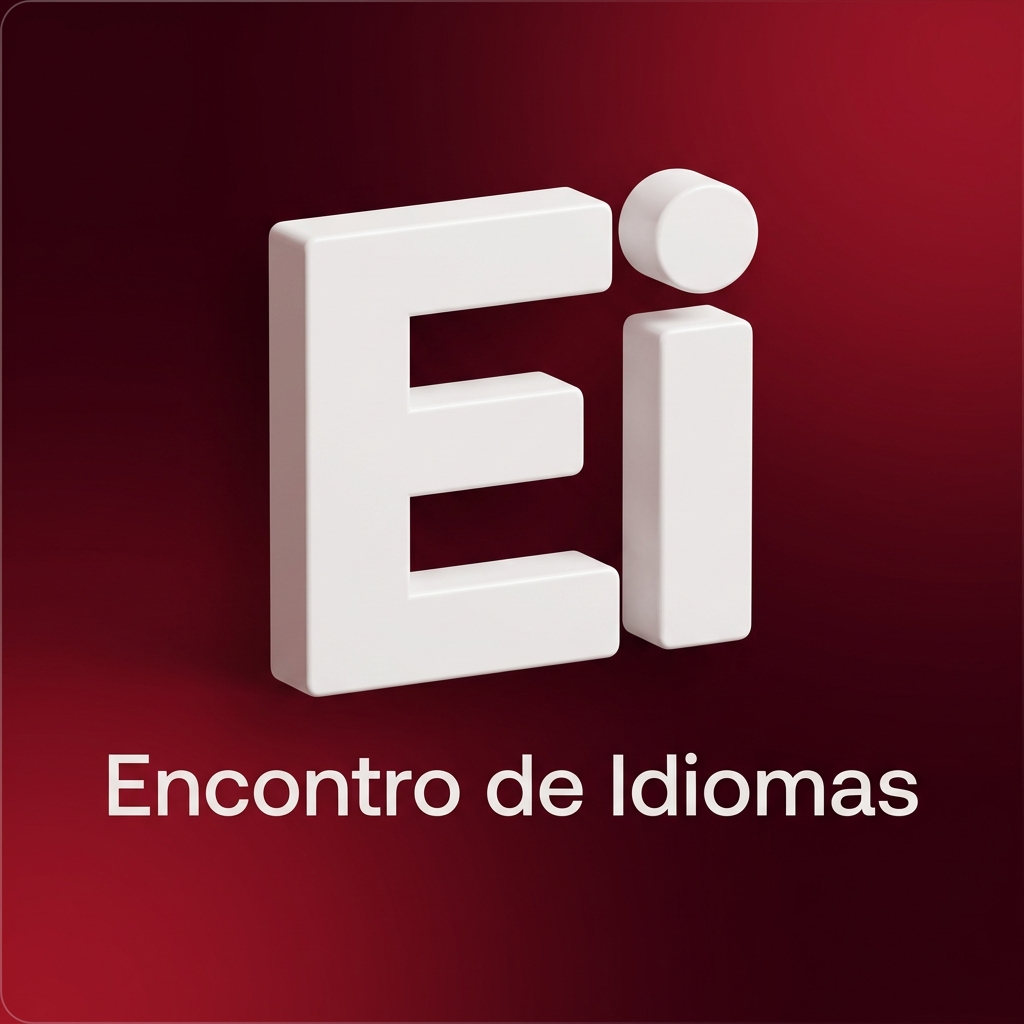
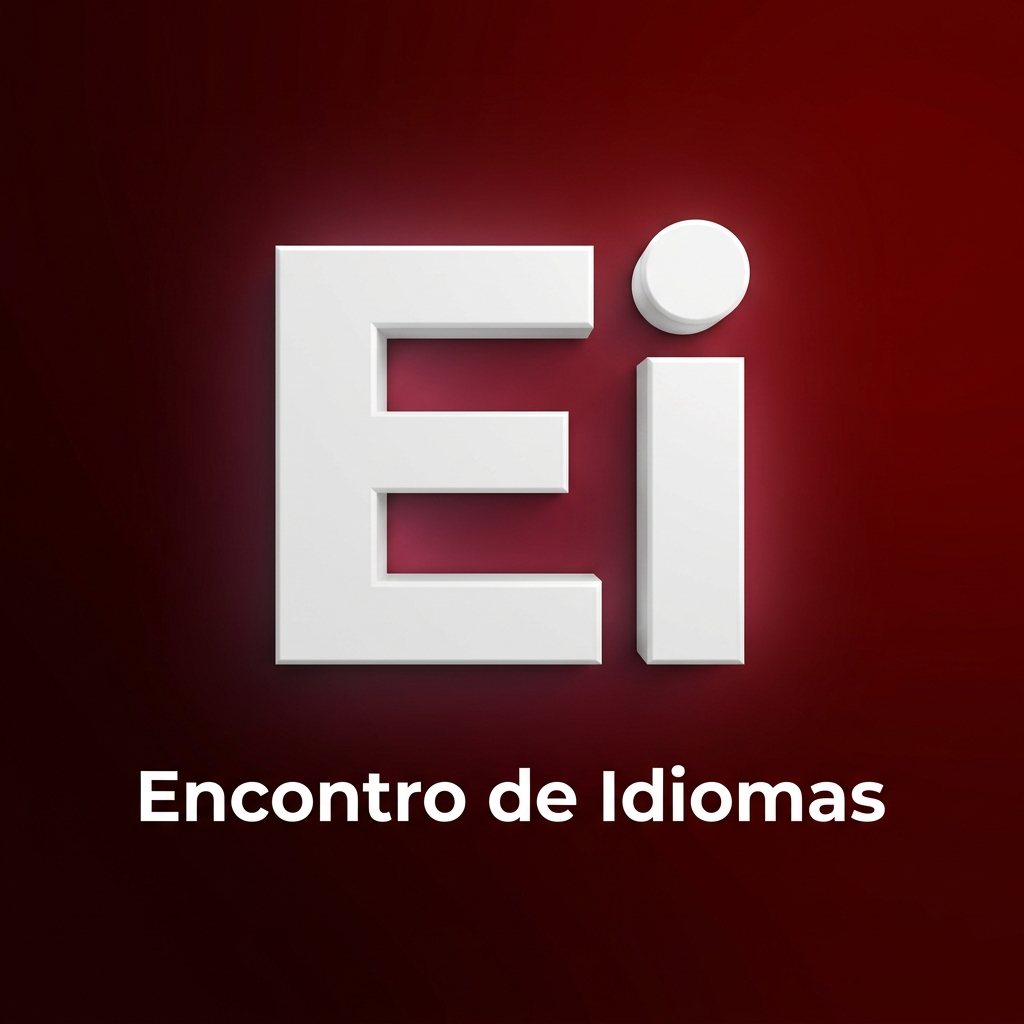
feat(dev): implement symmetrical front-facing 'Ei' preview image

diff --git a/includes/header.php b/includes/header.php
@@ -71,7 +71,7 @@ $canonical      = $canonical      ?? SITE_URL . '/' . $current_page;
     <meta property="og:type"        content="website">
     <meta property="og:title"       content="<?= sanitize($title) ?> | Prática de Conversação em Inglês e outros idiomas">
     <meta property="og:description" content="<?= sanitize($og_description) ?>">
-    <meta property="og:image"       content="<?= SITE_URL ?>/assets/images/og_preview_red_final.png?v=3.0">
+    <meta property="og:image"       content="<?= SITE_URL ?>/assets/images/og_preview_red_final.png?v=4.0">
     <meta property="og:url"         content="<?= sanitize($canonical) ?>">
     <meta property="og:site_name"   content="<?= SITE_NAME ?>">
     <meta property="og:locale"      content="pt_BR">
@@ -81,7 +81,7 @@ $canonical      = $canonical      ?? SITE_URL . '/' . $current_page;
     <meta property="twitter:url"         content="<?= sanitize($canonical) ?>">
     <meta property="twitter:title"       content="<?= sanitize($title) ?> | Prática de Conversação em Inglês e outros idiomas">
     <meta property="twitter:description" content="<?= sanitize($og_description) ?>">
-    <meta property="twitter:image"       content="<?= SITE_URL ?>/assets/images/og_preview_red_final.png?v=3.0">
+    <meta property="twitter:image"       content="<?= SITE_URL ?>/assets/images/og_preview_red_final.png?v=4.0">
 
     <link rel="canonical" href="<?= sanitize($canonical) ?>">
     <title><?= sanitize($title) ?> | <?= SITE_NAME ?></title>
